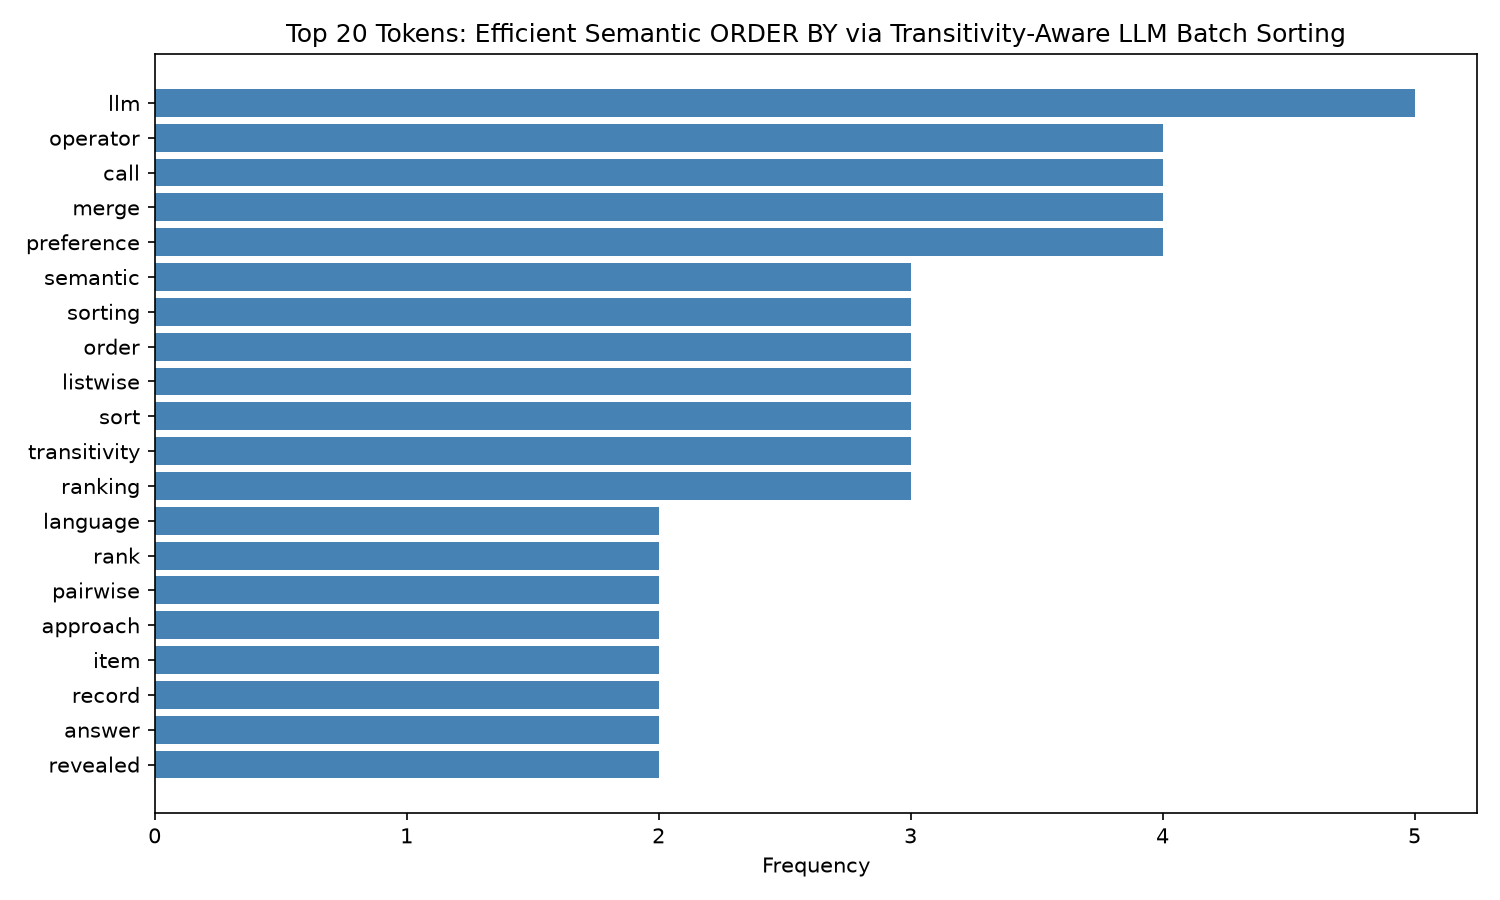
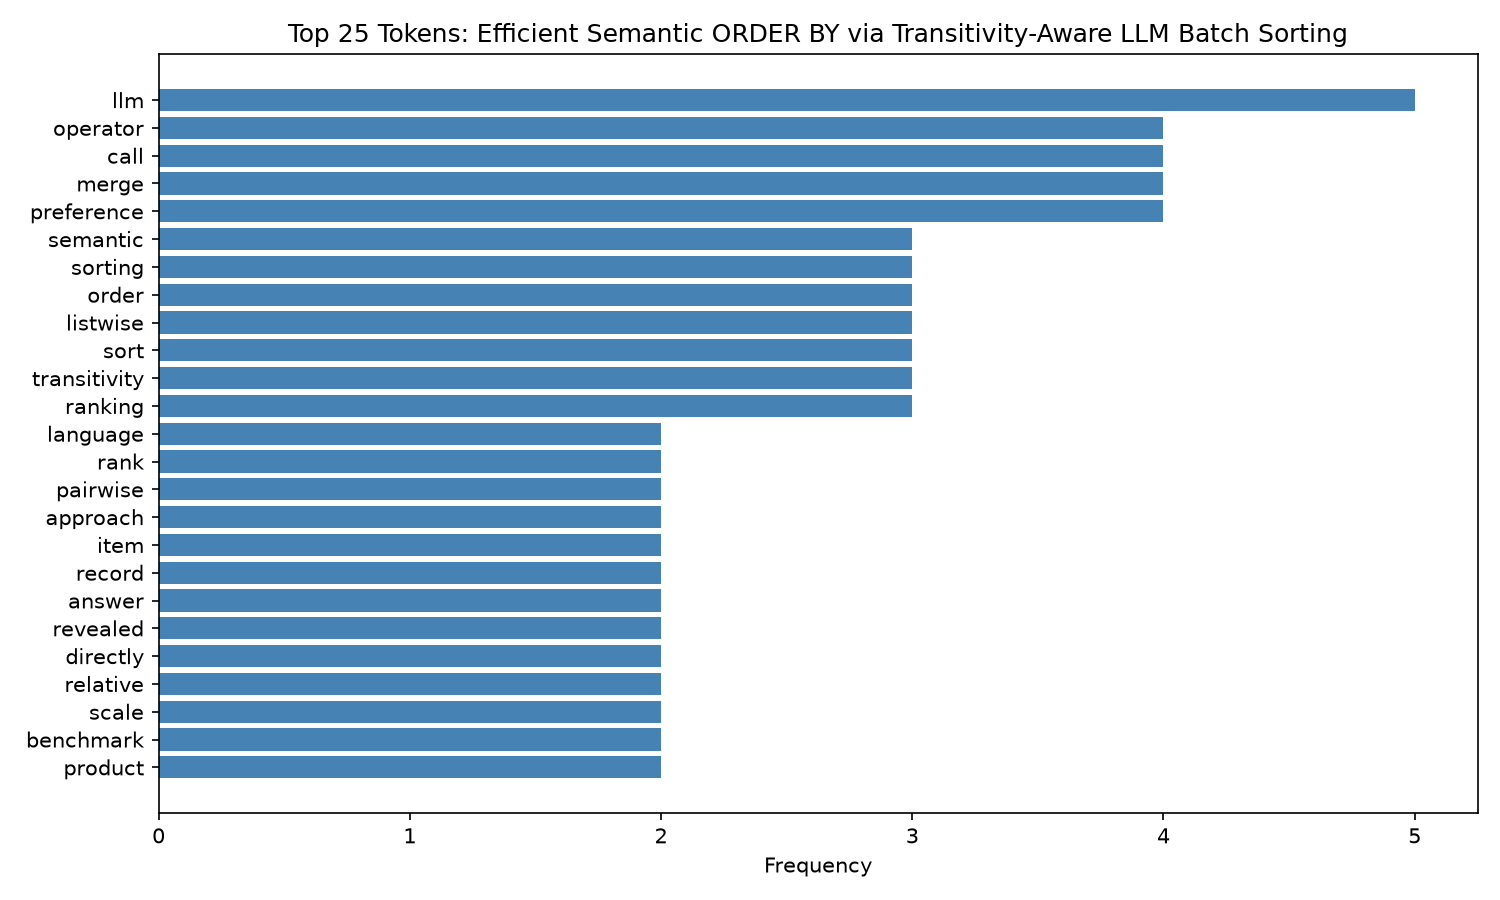
Modified number of top token shown on the bar chart

diff --git a/src/nlp/stage04_analyze.py b/src/nlp/stage04_analyze.py
@@ -195,7 +195,7 @@ def run_analyze(
     df: pd.DataFrame,
     LOG: logging.Logger,
     output_dir: Path = Path("data/processed"),
-    top_n: int = 20,
+    top_n: int = 25,
 ) -> None:
     """Analyze the transformed DataFrame and produce visualizations.
 

diff --git a/docs/index.md b/docs/index.md
@@ -37,6 +37,7 @@ The project uses:
 - Logging for execution records.
 - Ruff, ty, and pytest for code verification.
 - Zensical and GitHub Pages for published documentation.
+- NTLK for lemmatization
 
 The example retrieves an academic paper's
 abstract page from arXiv.
@@ -69,10 +70,10 @@ The pipeline records execution details in a project log.
 
 The following artifacts are created:
 
-- `data/raw/case_raw.html` - original HTML document.
-- `data/processed/case_processed.csv` - processed NLP dataset.
-- `data/processed/case_top_tokens.png` - token frequency chart.
-- `data/processed/case_wordcloud.png` - word cloud visualization.
+- `data/raw/jugurtha_raw.html` - original HTML document.
+- `data/processed/jugurtha_processed.csv` - processed NLP dataset.
+- `data/processed/jugurtha_top_tokens.png` - token frequency chart.
+- `data/processed/jugurtha_wordcloud.png` - word cloud visualization.
 
 These results demonstrate that the pipeline can
 acquire, validate, transform, analyze,
